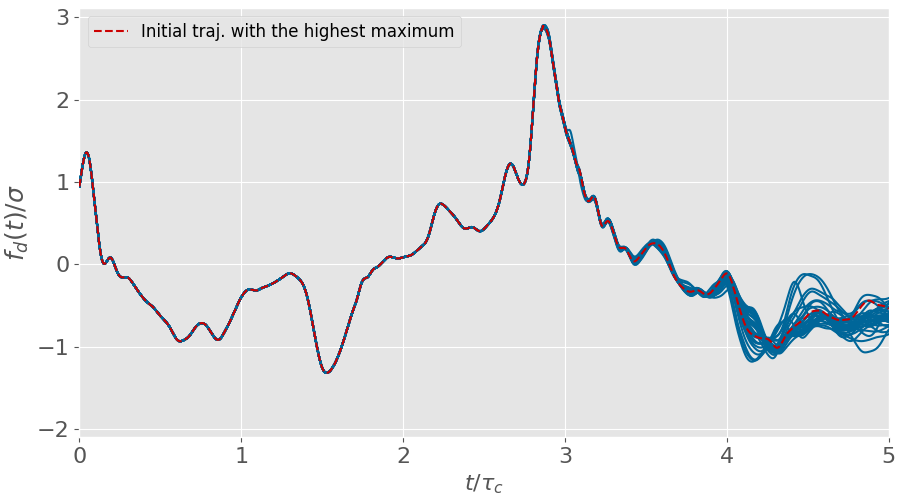
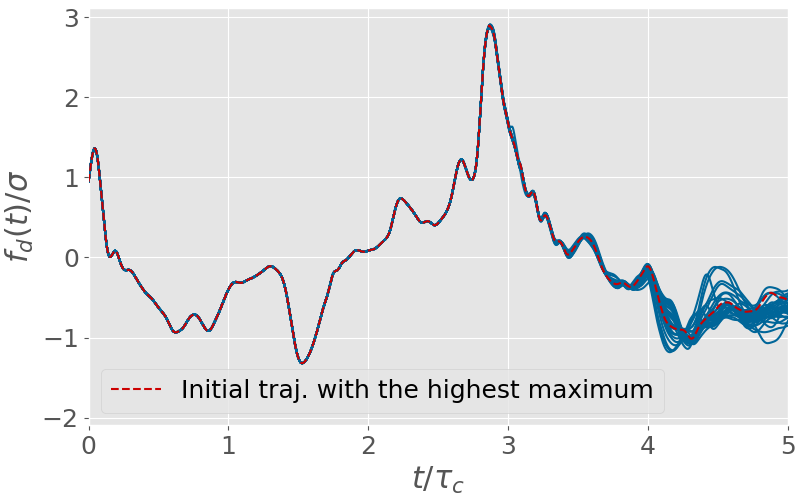
Updates plot and legends for AMS_drag_trajectories and AMS_drag_resampling

diff --git a/draft_p2.tex b/draft_p2.tex
@@ -520,6 +520,7 @@ In other words, generated trajectories are given a statistical weight, which kno
 \begin{figure}
   \centering
   \includegraphics[width=.7\linewidth]{illustr_AMS/figure_AMS}
+  \label{fig:illustr_AMS}
   \caption{Illustration of one selection-mutation step in the \ac{ams} algorithm for the computation of the probability that an observable $A:\mathbb{R}^d\to \mathbb{R}$  reaches values larger than $Q$ over a trajectory of duration $T_a$. The initial ensemble of blue trajectories is first generated. These trajectories are independant and can be simulated in parallel. On the basis of the respective maxima $Q_1$, $Q_2$ and $Q_3$, the trajectory with the lowest maximum is discarded from the ensemble (dashed blue line). Among the two remaining trajectories, trajectory 3 is chosen at random and copied until $Q_1$. It is then freely simulated from the branching poin to $T_a$. In case of deterministic dynamics, as samll perturbation is introduced at the branching. This procedure is typically iterated $J$ times, or until all trajectories go beyond a fixed threshold $Q$.}
 \end{figure}
 
@@ -572,19 +573,29 @@ For such complex dynamics however, there is no reasons for the drag itself to be
 Unfortunately, the choice of better score functions rely on a deep understanding of the physics of the rare events of interest, which is precisely what we are trying to achieve.
 
 % Commentaire figure instant_256_20
-
+\begin{figure}
+  \centering
+  \includegraphics[width=.7\linewidth]{AMS_drag_resampling/AMS_drag_resampling.png}
+    \caption{Maximum of the instantaneous drag along the resampled trajectories as a function of the corresponding computational cost $C_{TAMS}$. For these particular dynamics, the \ac{tams} is unable to efficiently sample rare trajectories associated to drag fluctuations higher than the largest fluctuation in the initial ensemble.}
+\end{figure}
 We apply the \ac{tams} with $N=256$ initial trajectories, with a duration $T_a = 20 \tau_c$.
 Similarly to figure~\ref{fig:comparaison_temps_de_retour}, figure~\ref{fig:instant_256_20} displays the maximum drag achieved by resampled trajectories.
-Figure~\ref{fig:instant_256_20} also shows the distribution of the maximum achieved drag for the $N$ \textit{initial} trajectories.
+In addition, figure~\ref{fig:instant_256_20} shows the distribution of the maximum achieved drag for the $N$ \textit{initial} trajectories.
 Over the first iterations of the algorithm, trajectories with the lowest maximum of the score function are discarded, and new trajectories with higher maximum are resampled.
 These maxima are depicted by the stars in figure~\ref{fig:instant_256_20}.
 However, one can see that resampled trajectories never exceeds the amplitude of the highest maximum in the initial set of trajectories.
 
 % Commentaire de la figure iter_181
-
-Figure~\ref{fig:instant_256_20} can be better understood by visualising the drag signals corresponding to the last resampled trajectories.
-Figure~\ref{fig:instant_256_20_b} displays the ensemble of trajectories after $181$ iterations of the \ac{tams} resampling procedure.
-Comparison with figure~\ref{fig:instant_256_20_b} suggests that, utimately, trajectories are resampled from the same initial trajectory.
+\begin{figure}
+  \centering
+  \includegraphics[width=.7\linewidth]{AMS_drag_trajectories/AMS_drag_trajectories.png}
+  \label{fig:AMS_drag_trajectories}
+  \caption{Ensemble of trajectories after $181$ iterations of the selection-mutation procedure.In this experiment, the \ac{tams} is used with the instantaneous drag $f_d$ as a score function. Trajectories have a duration $T_a = 5\tau_c$ and their number is $N_c = 32$.
+    The \ac{tams} fails to efficiently sample rare trajectories, because all trajectories are ultimately resampled from the trajectory displaying the highest maximum in the initial ensemble.}
+\end{figure}
+Figure~\ref{fig:AMS_drag_trajectories} can be better understood by visualising the drag signals corresponding to the last resampled trajectories.
+Figure~\ref{fig:AMS_drag_trajectories} displays the ensemble of trajectories after $181$ iterations of the \ac{tams} resampling procedure (see figure~\ref{fig:illustr_AMS}).
+One can see that, utimately, trajectories are resampled from one unique initial trajectory.
 This phenomenon can be explained as follows.
 Because the flow dynamics have a memory, it takes a certain time before a resampled trajectory separate from its parent.
 In our case, this memory originates from the deterministic nature of the dynamics, which implies that two trajectories starting from infinitesimally close starting points will overlap over a timescale called
@@ -621,22 +632,9 @@ However, such modification(s) of the resampling procedure must be implemented wi
 
 
 
-\begin{figure}
-  \centering
-  \includegraphics[width=.7\linewidth]{AMS_drag_resampling/AMS_drag_resampling.png}
-    \caption{Maximum of the instantaneous drag along the resampled trajectories, denoted by $\tilde{f}_d^{(j)}$, as a function of the corresponding computational cost $C_j$, defined in~\eqref{eq:comp_cost_iterations}. In both figures, the \ac{tams} is iterated until extinction. 
-    The solid black line indicates the typical fluctuation amplitude $a$ as a function of the corresponding  \textit{return time} $r(a)$. It is the typical timescale of occurrence of fluctuations above $a$. Furthermore, the square markers depict the maximum $\tilde{f}_{d,n}^{(0)},\,\, 1\leq n \leq N_c$ over the initial trajectories.
-    This figure illustrates that in both experiments the \ac{tams} does not improve the sampling of rare fluctuations. On can see that the maximum values among the resampled trajectories concentrates on values already sampled over the initial trajectories. Eventually, extinction is reached as the algorithm is unable to generate a fluctuation higher than the maximum fluctuation in the initial ensemble of trajectories.
-    This behaviour is illustrated in figure~\ref{fig:extinction_32_5} on the basis of the drag timeseries involved in the experiment of figure~\ref{fig:comparaison_ams_return_time_instant_a}.}
-\end{figure}
 
-\begin{figure}
-  \centering
-  \includegraphics[width=.7\linewidth]{AMS_drag_trajectories/AMS_drag_trajectories.png}
-    \caption{Visualisation of the drag timeseries corresponding to the set of trajectories in the ensemble, at different iterations along the algorithm. In this experiment, the \ac{tams} is used with the instantaneous drag $f_d$ as a score function. Trajectories have a duration $T_a = 5\tau_c$ and their number is $N_c = 32$.
-    One can see that, as the number of iterations increases, the number of independent resampled trajectories drastically decreases until extinction at iteration $181$. The timeseries corresponding to the two initial trajectories exhibiting the highest fluctuations are displayed in colour. In all four figures, colour is inherited from the parent trajectory. It illustrates that the two strongest initial trajectories quickly become predominant in the ensemble, as the other are discarded.
-    As can be seen in figure~\ref{fig:subfigc}, trajectories only separate well after the maximum is reached. Therefore, resampling the blue trajectories based on the red trajectories can only change the overall maximum by a very small amount. Consequently, blue trajectories are discarded one after the other, each time resampled into another instance of the red trajectory. This new instance has roughly the same maximum as the others.}
-\end{figure}
+
+
 
 \subsection{Extreme time-averaged drag forces with the \acl{gktl} algorithm}
 \label{sec:gktl}

diff --git a/figures/AMS_drag_trajectories/plot_pre_extinct.py b/figures/AMS_drag_trajectories/plot_pre_extinct.py
@@ -1,5 +1,5 @@
 import numpy as np
-1;4601;0cimport matplotlib.pyplot as plt
+import matplotlib.pyplot as plt
 
 plt.style.use('ggplot')
 
@@ -26,7 +26,7 @@ Ta = 5;
 tspan = np.linspace(0,5,5000)
 maxArray=np.zeros(Nc)
 # Init. figure
-fig,ax = plt.subplots(figsize=(9,5), constrained_layout=True)
+fig,ax = plt.subplots(figsize=(8,5), constrained_layout=True)
 
 for i in range(0,Nc):
     x = np.fromfile(prefix+'traj_{:d}_costFunc_iter_0.dat'.format(i))
@@ -50,12 +50,12 @@ for t in range(1,182):
         x=(x-m)/sig
         ax.lines[ktIdx].set_ydata(x)
 
-ax.set_xlabel(r'$t / \tau_c$',fontsize=16)
-ax.set_ylabel(r'$f_d(t) / \sigma$',fontsize=18)
-ax.tick_params(axis="x", labelsize=16)
-ax.tick_params(axis="y", labelsize=16)
+ax.set_xlabel(r'$t / \tau_c$',fontsize=22)
+ax.set_ylabel(r'$f_d(t) / \sigma$',fontsize=22)
+ax.tick_params(axis="x", labelsize=18)
+ax.tick_params(axis="y", labelsize=18)
 
-ax.legend(loc='best', fontsize=12)
+ax.legend(loc='best', fontsize=18)
 ax.set_xlim((0,5))
 
 fname = 'AMS_drag_trajectories.png'

diff --git a/figures/AMS_drag_resampling/make_plot_256.py b/figures/AMS_drag_resampling/make_plot_256.py
@@ -32,7 +32,7 @@ Nresamp = len(amax)
 Cvec = Nc*Ta*np.ones(Nresamp) + Ta*np.arange(1,Nresamp+1)
 
 # Init. figure
-fig,ax = plt.subplots(figsize=(9,5), constrained_layout=True)
+fig,ax = plt.subplots(figsize=(8,5), constrained_layout=True)
 
 # Gathers the maxima over the initial ensemble
 maxArray = np.zeros(Nc)
@@ -58,12 +58,12 @@ resamp.set_markeredgecolor(resamp.get_markerfacecolor())
 resamp.set_label('Maxima over resampled trajectories')
 
 ax.set_xscale('log')
-ax.set_xlabel(r'$C_{TAMS} / \tau_c$',fontsize=16)
-ax.set_ylabel(r'$f_d^{\star} / \sigma$',fontsize=18)
-ax.tick_params(axis="x", labelsize=16)
-ax.tick_params(axis="y", labelsize=16)
+ax.set_xlabel(r'$C_{TAMS} / \tau_c$',fontsize=22)
+ax.set_ylabel(r'$f_d / \sigma$',fontsize=22)
+ax.tick_params(axis="x", labelsize=18)
+ax.tick_params(axis="y", labelsize=18)
 
-ax.legend(loc=7, fontsize=12)
+ax.legend(loc='best', fontsize=18)
 
 fname = 'AMS_drag_resampling.png'
 plt.savefig(fname)
